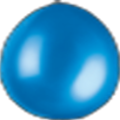
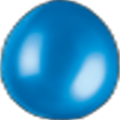
Main car modified to fit space better. Same change still needs ot be done for other car. Mini images of power ups created

diff --git a/client/styles.css b/client/styles.css
@@ -78,7 +78,7 @@ div {
     top: 300px;
     height: 100px;
     width: 100px;
-    background-image: url("img/ourCar.png");
+    background-image: url("img/myCarWide.png");
     //background-color: red;
     padding: 0;
     //max-height:100px;
